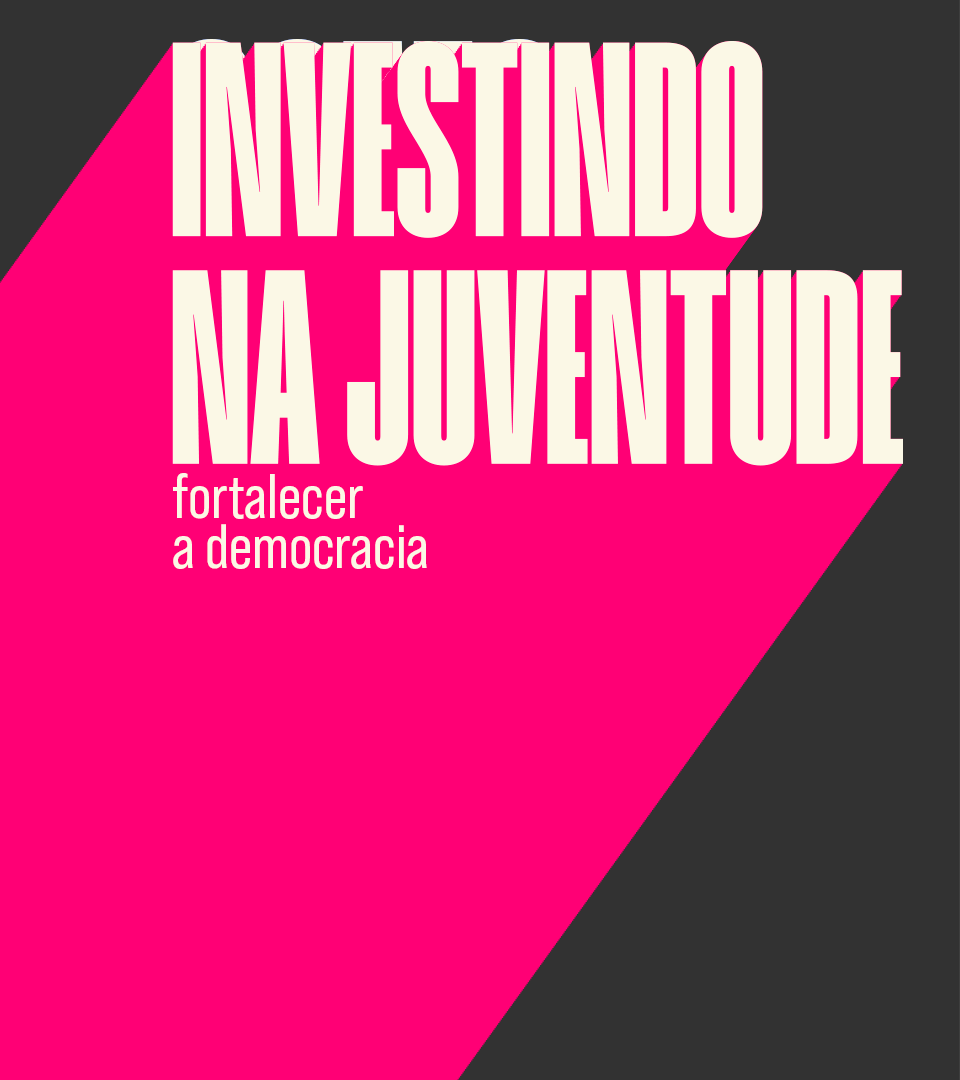
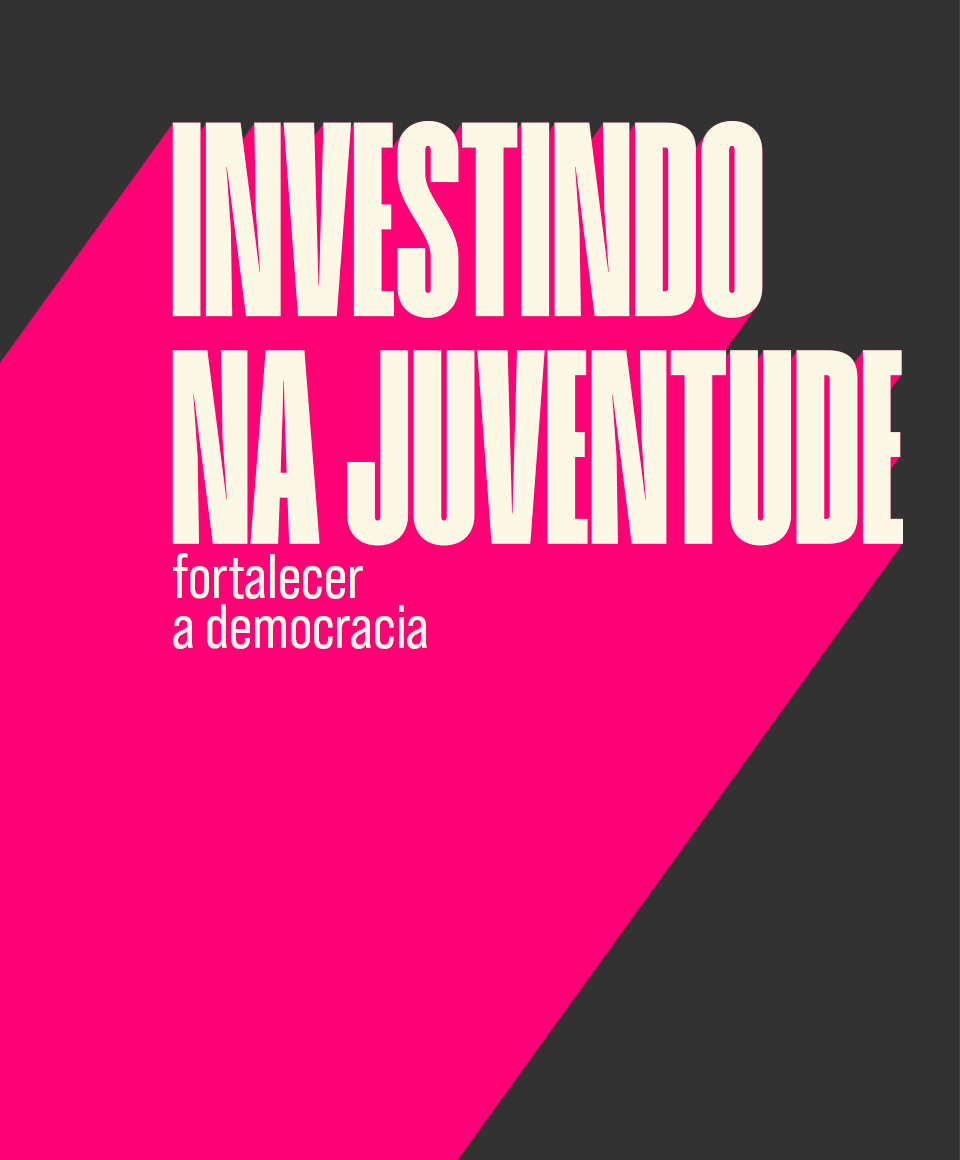
feat: novas imagens juventude/servicos/marina, altura dos cases -10%, divisórias padronizadas e faixa hero nas paginas internas

diff --git a/src/components/sections.tsx b/src/components/sections.tsx
@@ -29,24 +29,29 @@ function Staircase({ color, className = '' }: { color: string; className?: strin
   )
 }
 
+export function PageHeroBand() {
+  return (
+    <div className="bg-[#323232]">
+      <div className="h-28 sm:h-36" />
+    </div>
+  )
+}
+
 type SectionDividerProps = {
   tone?: 'cream' | 'white'
   size?: 'sm' | 'lg'
 }
 
-export function SectionDivider({ tone = 'cream', size = 'sm' }: SectionDividerProps) {
-  const large = size === 'lg'
+export function SectionDivider({ tone = 'cream' }: SectionDividerProps) {
   return (
     <div
-      className={`flex justify-center ${tone === 'white' ? 'bg-white' : 'bg-cream'} ${
-        large ? 'py-8 lg:py-[2.15vw]' : 'py-3'
-      }`}
+      className={`flex justify-center ${tone === 'white' ? 'bg-white' : 'bg-cream'} py-6 lg:py-[1.6vw]`}
       aria-hidden="true"
     >
       <img
         src="/star.png"
         alt=""
-        className={large ? 'h-7 w-7 lg:h-[2.5vw] lg:w-[2.5vw]' : 'h-5 w-5 sm:h-6 sm:w-6'}
+        className="h-[18px] w-[18px] lg:h-[1.7vw] lg:w-[1.7vw]"
       />
     </div>
   )
@@ -60,6 +65,8 @@ type SplitSectionProps = {
   align?: 'center' | 'bottom'
   contentClassName?: string
   ratio?: number
+  imageBg?: string
+  imageCover?: boolean
   children: ReactNode
 }
 
@@ -71,22 +78,24 @@ export function SplitSection({
   align = 'center',
   contentClassName = 'w-full max-w-[22rem] lg:ml-[13vw]',
   ratio = 0.8,
+  imageBg,
+  imageCover = false,
   children,
 }: SplitSectionProps) {
   return (
     <section aria-labelledby={`${id}-title`} className="bg-cream">
       <div
-        className="grid lg:h-[clamp(430px,calc(50vw/var(--split-ratio)),900px)] lg:grid-cols-2"
+        className="grid lg:h-[clamp(430px,calc(50vw/var(--split-ratio)),900px)] lg:grid-rows-[minmax(0,1fr)] lg:grid-cols-2"
         style={{ '--split-ratio': ratio } as CSSProperties}
       >
-        <div className="bg-charcoal">
+        <div className={imageBg ? '' : 'bg-charcoal'} style={imageBg ? { backgroundColor: imageBg } : undefined}>
           <img
             src={image}
             alt=""
             aria-hidden="true"
             loading="lazy"
             decoding="async"
-            className="h-auto w-full object-contain lg:h-full"
+            className={imageCover ? 'h-full w-full object-cover object-top' : 'h-auto w-full object-contain lg:h-full'}
           />
         </div>
 

diff --git a/src/pages/Juventude.tsx b/src/pages/Juventude.tsx
@@ -1,4 +1,5 @@
 import {
+  PageHeroBand,
   SectionDivider,
   ServicesStrip,
   SplitSection,
@@ -87,12 +88,15 @@ export function Juventude() {
     <div className="bg-cream text-charcoal">
       <h1 className="sr-only">Juventude — AHH Comunicação Política</h1>
 
+      <PageHeroBand />
+
       <SplitSection
         id="investindo"
         title="Investindo na juventude"
         image="/images/juventude/investindo.png"
         color="#FF0075"
         ratio={0.888}
+        imageBg="#323232" imageCover
         align="bottom"
         contentClassName="w-full max-w-[30rem] lg:ml-[11vw] lg:mr-[10vw]"
       >
@@ -123,6 +127,7 @@ export function Juventude() {
         image="/images/juventude/tamo-junto.png"
         color="#00CF87"
         ratio={0.888}
+        imageBg="#323232" imageCover
         align="bottom"
         contentClassName="w-full max-w-[28rem] lg:ml-[11vw] lg:mr-[10vw]"
       >
@@ -153,6 +158,7 @@ export function Juventude() {
         image="/images/juventude/regras-de-entrada.png"
         color="#025FFF"
         ratio={0.888}
+        imageBg="#323232" imageCover
         align="bottom"
         contentClassName="w-full max-w-[40rem] lg:ml-[9.5vw] lg:mr-[10vw]"
       >

diff --git a/src/pages/Servicos.tsx b/src/pages/Servicos.tsx
@@ -1,5 +1,6 @@
 import { MessageCircle } from 'lucide-react'
 import {
+  PageHeroBand,
   SectionDivider,
   ServicesStrip,
   SplitSection,
@@ -108,12 +109,16 @@ export function Servicos() {
     <div className="bg-cream text-charcoal">
       <h1 className="sr-only">Serviços da AHH — Comunicação Política</h1>
 
+      <PageHeroBand />
+
       <SplitSection
         id="essencia"
         title="Nossa essência"
         image="/images/sobre/quem-somos.png"
         color="#FF3E00"
         ratio={0.888}
+        imageBg="#323232"
+        imageCover
       >
         <p className="text-[clamp(1.5rem,2.7vw,2.6rem)] leading-[1.18]">
           Somos apaixonados por <strong className="font-semibold text-[#FF3E00]">política</strong> e
@@ -133,6 +138,8 @@ export function Servicos() {
         image="/images/sobre/metodologia.png"
         color="#00CF87"
         ratio={0.888}
+        imageBg="#323232"
+        imageCover
       >
         <ul className="flex flex-col gap-2 text-[clamp(1.15rem,1.7vw,1.5rem)] leading-[1.35]">
           {METHOD_STEPS.map((step) => (

diff --git a/src/components/CaseCard.tsx b/src/components/CaseCard.tsx
@@ -26,7 +26,8 @@ export function CaseCard({ item, index }: CaseCardProps) {
         height={1080}
         loading={index === 0 ? 'eager' : 'lazy'}
         decoding="async"
-        className="block h-auto w-full"
+        className="block h-full w-full object-cover"
+        style={{ aspectRatio: '1600 / 810' }}
       />
     </motion.article>
   )
